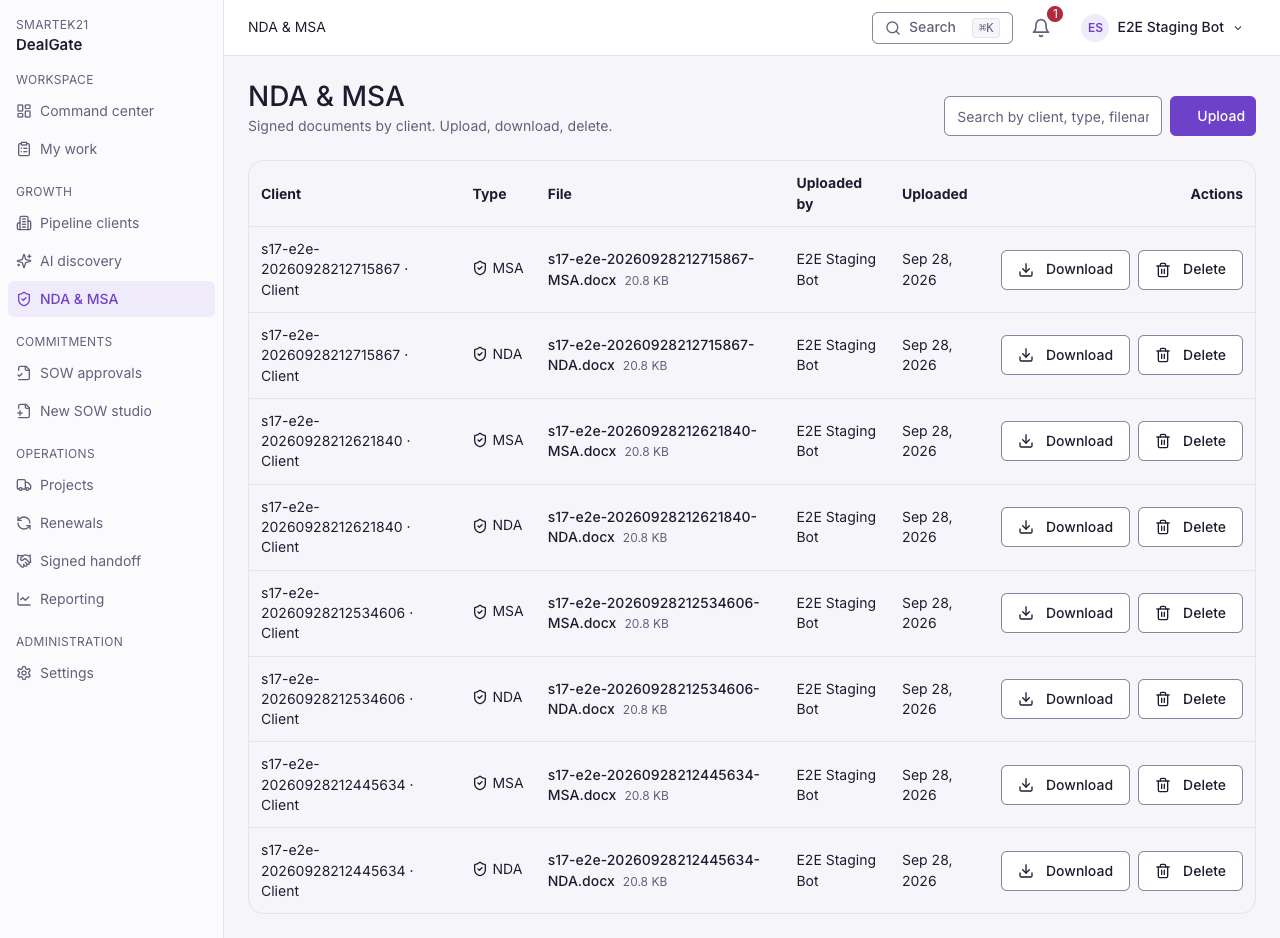
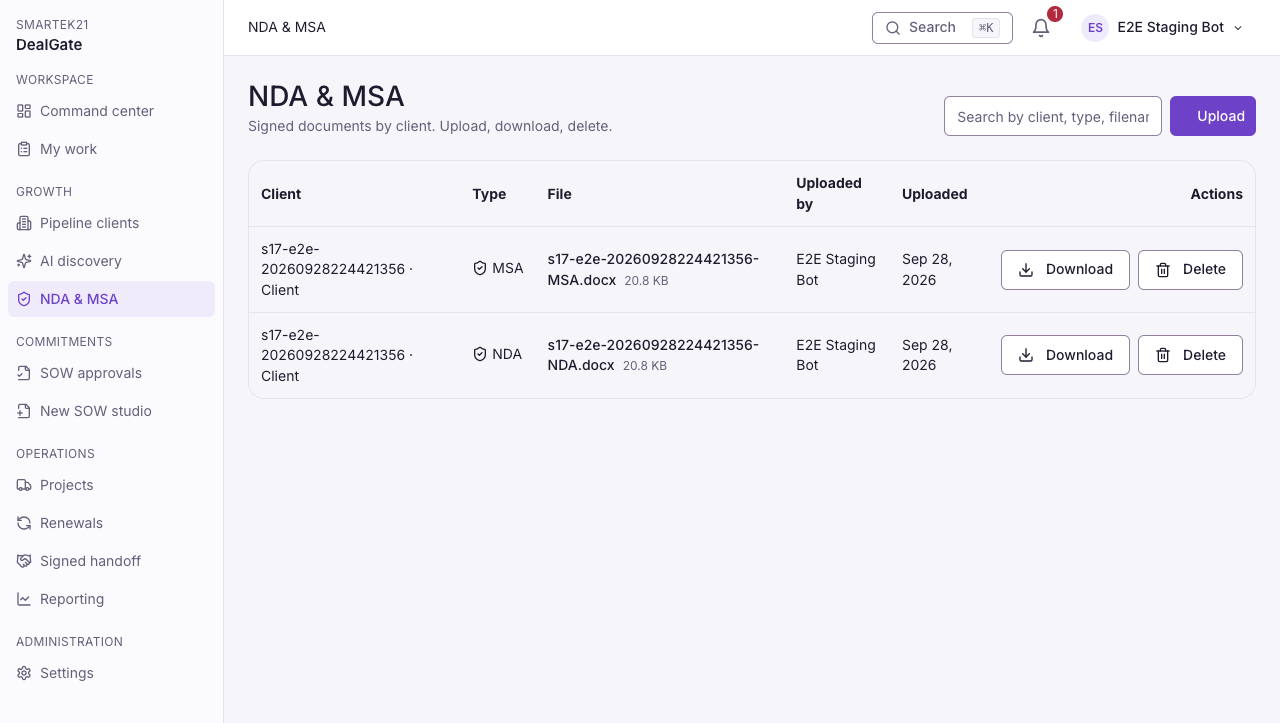
S18 · §1: test data stops leaking (with proof, not a claim)
Directive S18 §1: 'Prove it with the gate, not a claim.'

- scripts/check-test-data-clean.sh: new hard gate. Enumerates clients
  on the deployed API, matches names against the run-tag prefix regex
  used by worker/e2e_cleanup.py, and exits non-zero (with the offending
  ids printed) if any survive.
- scripts/deploy-smoke.sh: the trap-EXIT cleanup is now tag-based (used
  to depend on an id captured mid-flow — leaked when the capture failed
  silently). After cleanup it invokes the gate; if any test-tagged row
  remains anywhere on staging the smoke exits red, so a deploy caller
  never trusts a run that leaked.
- tests/e2e/fixtures/tag-teardown.ts: registerRunTag(tag) helper. Wraps
  test.afterAll and hard-deletes every client whose name contains the
  tag — runs on pass, fail, or timeout so the S17-era 'append delete at
  the end of the test body' pattern (which never ran on assertion
  failure) can go away.
- tests/e2e/specs/24-s17-simplify-delete.spec.ts: calls
  registerRunTag(RUN_TAG) so its 9 leaked-from-earlier-crashed-runs
  clients (see sweep counts below) can't recur.
- tests/e2e/package.json: 'npm test' now runs 'playwright test && the
  gate'. Failing gate turns the whole suite red. 'npm run test:no-gate'
  kept for tight local iteration.

Sweep run against staging (17 clients — 9 s17-e2e-*, 8 smoke-*):

  clients:            17
  opportunities:      17
  sows:               17
  sow_versions:       17
  agreements:         6
  gm_models:          0
[…]

diff --git a/tests/e2e/fixtures/tag-teardown.ts b/tests/e2e/fixtures/tag-teardown.ts
@@ -1,0 +1,56 @@
+/**
+ * S18 §1 · run-tag teardown helper.
+ *
+ * Every e2e spec that creates staging data must tag its clients with a
+ * run-tag string containing the spec's short prefix (``s17-e2e-``,
+ * ``s18-e2e-``, ``smoke-e2e-``, ...) plus a timestamp. This helper wraps
+ * a Playwright test with an ``afterAll`` that ALWAYS runs — pass, fail,
+ * timeout — and hard-deletes every client on staging whose name
+ * contains the run tag.
+ *
+ * Use exactly this pattern in every spec that hits ``/api``:
+ *
+ *   import { registerRunTag } from "../fixtures/tag-teardown";
+ *   const RUN_TAG = `s18-e2e-${Date.now()}`;
+ *   registerRunTag(RUN_TAG);
+ *
+ * Do NOT rely on an in-test `await api.delete(...)` at the end of the
+ * body — those don't run when an assertion above throws.
+ */
+import { test, request as pwRequest } from "@playwright/test";
+import { mintStagingTokens } from "./staging-auth";
+
+const BASE_URL = process.env.E2E_BASE_URL ?? "https://app.dealgateapp.com";
+
+export function registerRunTag(tag: string): void {
+  test.afterAll(async () => {
+    if (!tag) return;
+    const { accessToken } = mintStagingTokens();
+    const api = await pwRequest.newContext({
+      baseURL: `${BASE_URL}/api/`,
+      extraHTTPHeaders: { Authorization: `Bearer ${accessToken}` },
+      timeout: 60_000,
+    });
+    try {
+      const res = await api.get("clients?size=200");
+      if (!res.ok()) return;
+      const body = (await res.json()) as { items?: Array<{ id: string; name: string }> };
+      const targets = (body.items ?? []).filter((c) =>
+        (c.name ?? "").includes(tag),
+      );
+      for (const c of targets) {
+        try {
+          await api.delete(`clients/${c.id}?reason=tag-teardown`);
+        } catch {
+          // best-effort — nightly worker will sweep whatever survives
+        }
+      }
+      if (targets.length > 0) {
+        // eslint-disable-next-line no-console
+        console.log(`[tag-teardown] deleted ${targets.length} clients for tag ${tag}`);
+      }
+    } finally {
+      await api.dispose();
+    }
+  });
+}

diff --git a/tests/e2e/specs/24-s17-simplify-delete.spec.ts b/tests/e2e/specs/24-s17-simplify-delete.spec.ts
@@ -17,11 +17,13 @@ import * as os from "node:os";
 import * as path from "node:path";
 import { test, expect, request as pwRequest } from "@playwright/test";
 import { authStaging, mintStagingTokens } from "../fixtures/staging-auth";
+import { registerRunTag } from "../fixtures/tag-teardown";
 
 const BASE = process.env.E2E_BASE_URL ?? "https://app.dealgateapp.com";
 const REPORT_DIR = path.resolve(__dirname, "..", "..", "..", "docs", "reports", "s17");
 fs.mkdirSync(REPORT_DIR, { recursive: true });
 const RUN_TAG = `s17-e2e-${new Date().toISOString().replaceAll(/[-:T.Z]/g, "")}`;
+registerRunTag(RUN_TAG);
 const FIXTURE = path.resolve(
   __dirname,
   "..",
